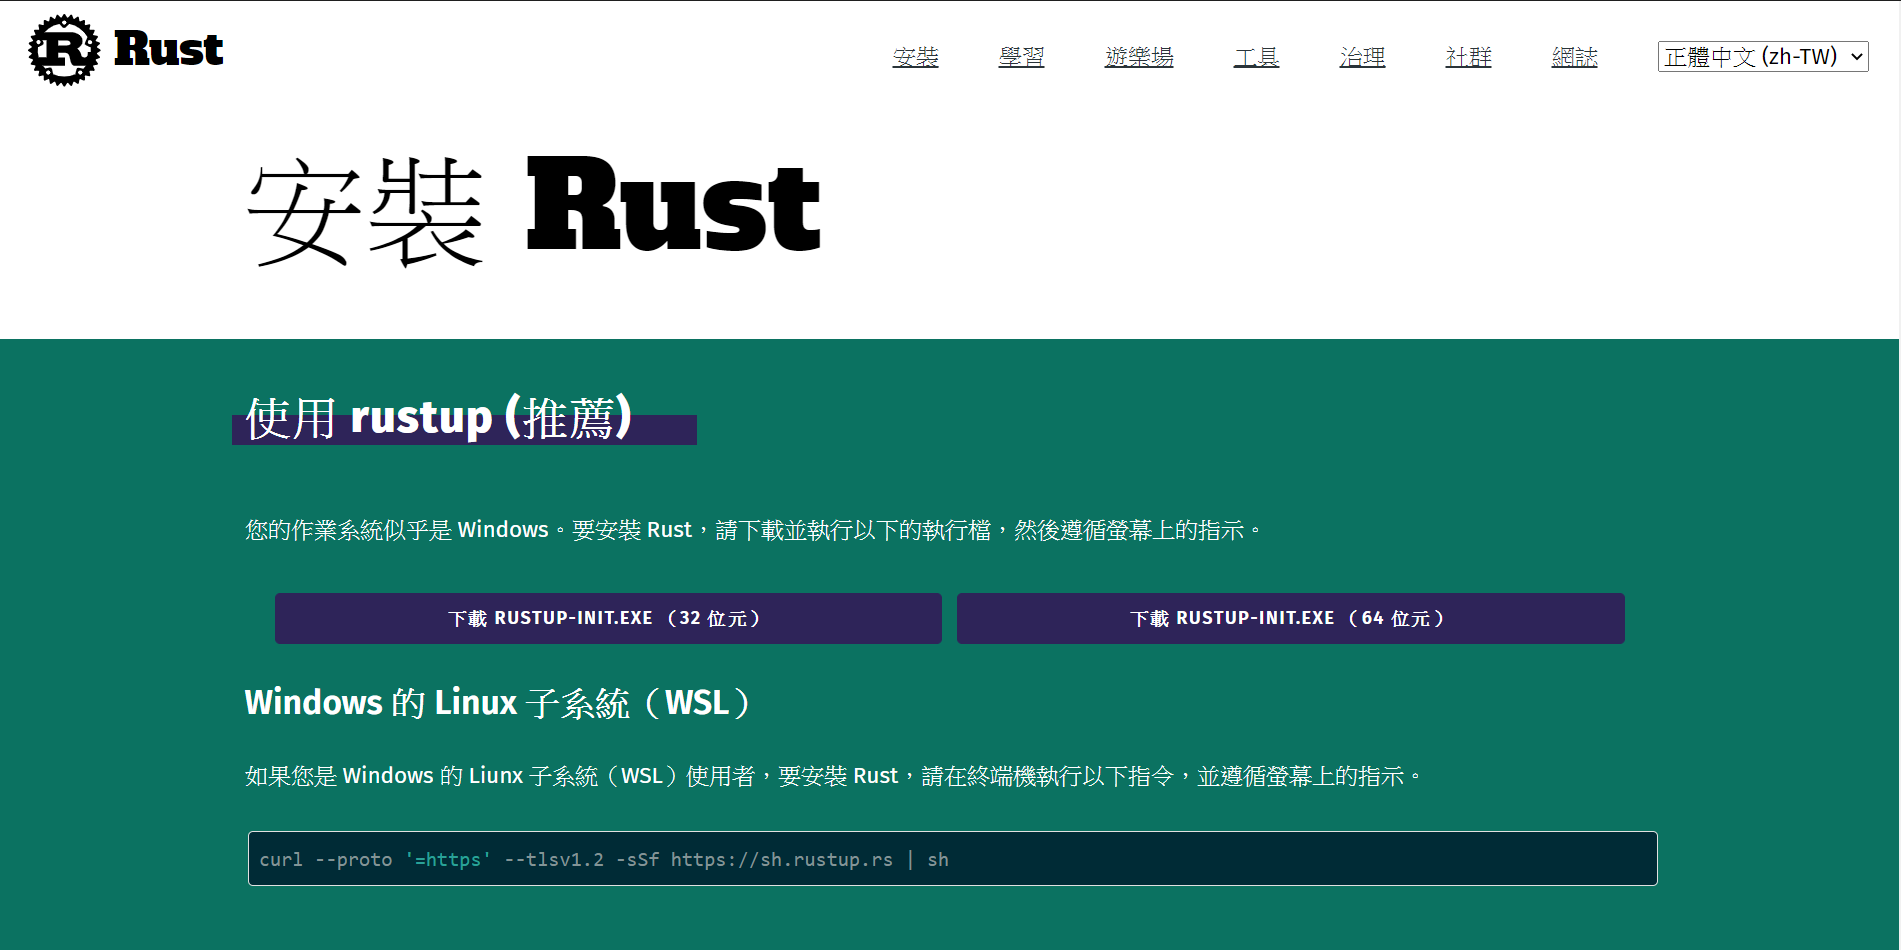
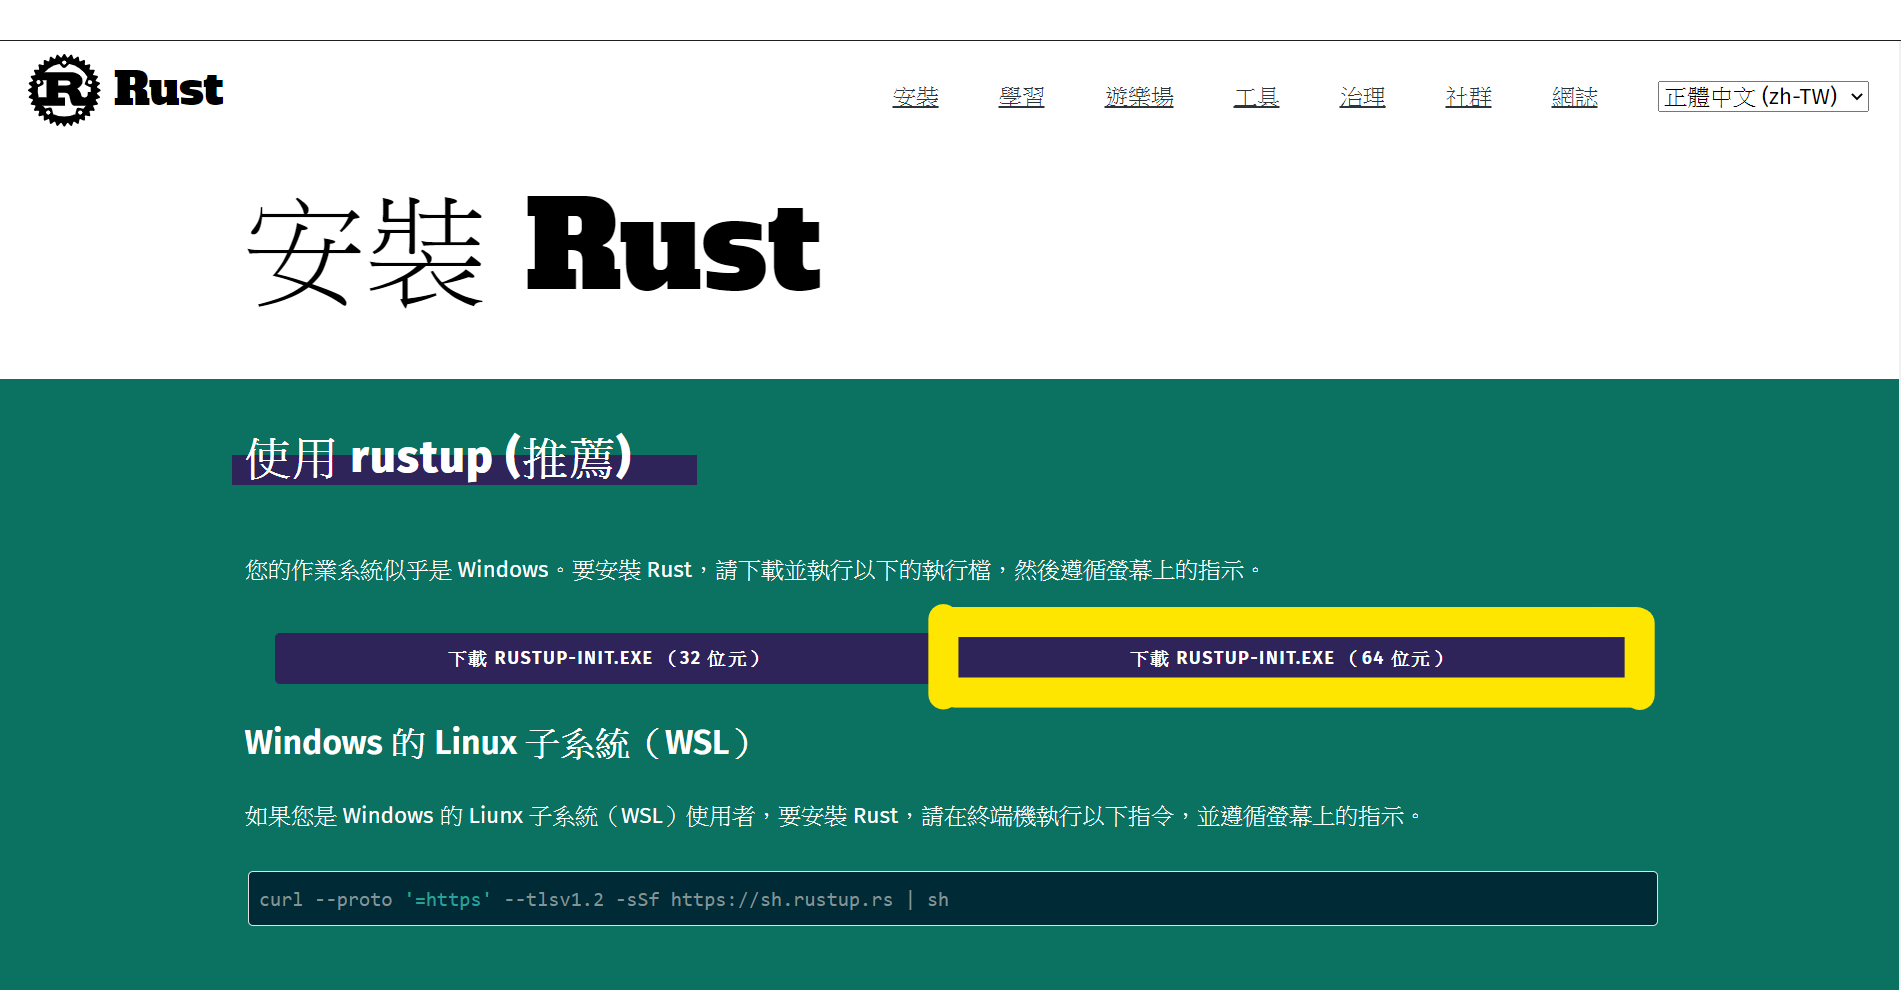
README.md

diff --git a/Final_term_project/Setting up.md b/Final_term_project/Setting up.md
@@ -3,5 +3,5 @@
 
 ## On Windows
 ---
-1. Install ```rustup``` from [HERE](https://www.rust-lang.org/zh-TW/tools/install).
-![install_screenshot_website]()
+1. Install ```rustup``` from [HERE](https://www.rust-lang.org/zh-TW/tools/install).<br>
+![install_screenshot_website](Picture/install_screenshot_website.png)
